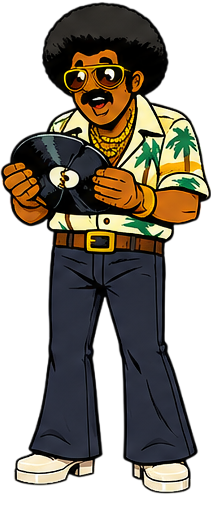
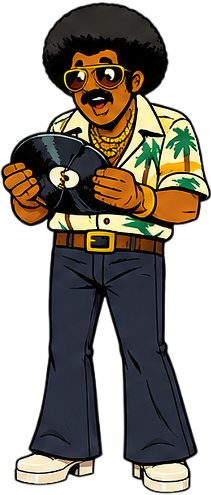
fix: ground Big Tony across all viewports

diff --git a/src/index.css b/src/index.css
@@ -43,6 +43,7 @@
 
 html, body, #root {
   height: 100%;
+  height: 100dvh;
   width: 100%;
   overflow: hidden;
 }
@@ -194,6 +195,39 @@ body {
 
 .tony-vibing {
   animation: tony-bob 1.2s ease-in-out infinite;
+}
+
+/* ── Big Tony container positioning ──
+   The interior background is panoramic (3:1). object-fit:cover means
+   the counter sits at ~46% from the bottom on EVERY screen size.
+   So Tony must stay the same proportional height everywhere.
+   
+   IMPORTANT: This element has Framer Motion (x: -30 → 0 entrance).
+   Framer Motion OVERRIDES CSS transform, so we CANNOT use
+   translateX(-50%) for centering. Instead: left:0 + right:0 spans
+   the full width, and flexbox (in inline styles) centers Tony.
+   Desktop: padding-right shifts him slightly left of center.
+   Mobile: no padding, true center. */
+.tony-container {
+  left: 0;
+  right: 0;
+  overflow: visible;
+  padding-right: 2%;
+}
+
+@media (max-width: 768px) {
+  .tony-container {
+    padding-right: 0;
+  }
+}
+
+/* ── Big Tony sprite ──
+   82dvh everywhere. The background scales the same on every viewport,
+   so shrinking Tony on mobile makes him look tiny against the counter.
+   dvh accounts for mobile browser chrome; vh is the fallback. */
+.tony-sprite {
+  height: 82vh;
+  height: 82dvh;
 }
 
 /* ============================================

diff --git a/src/App.jsx b/src/App.jsx
@@ -24,7 +24,7 @@ export default function App() {
   } = useAppState();
 
   return (
-    <div data-theme={theme} style={{ width: '100vw', height: '100vh', overflow: 'hidden' }}>
+    <div data-theme={theme} style={{ width: '100vw', height: '100dvh', overflow: 'hidden' }}>
       <div className="crt-overlay" />
 
       <AnimatePresence mode="wait">